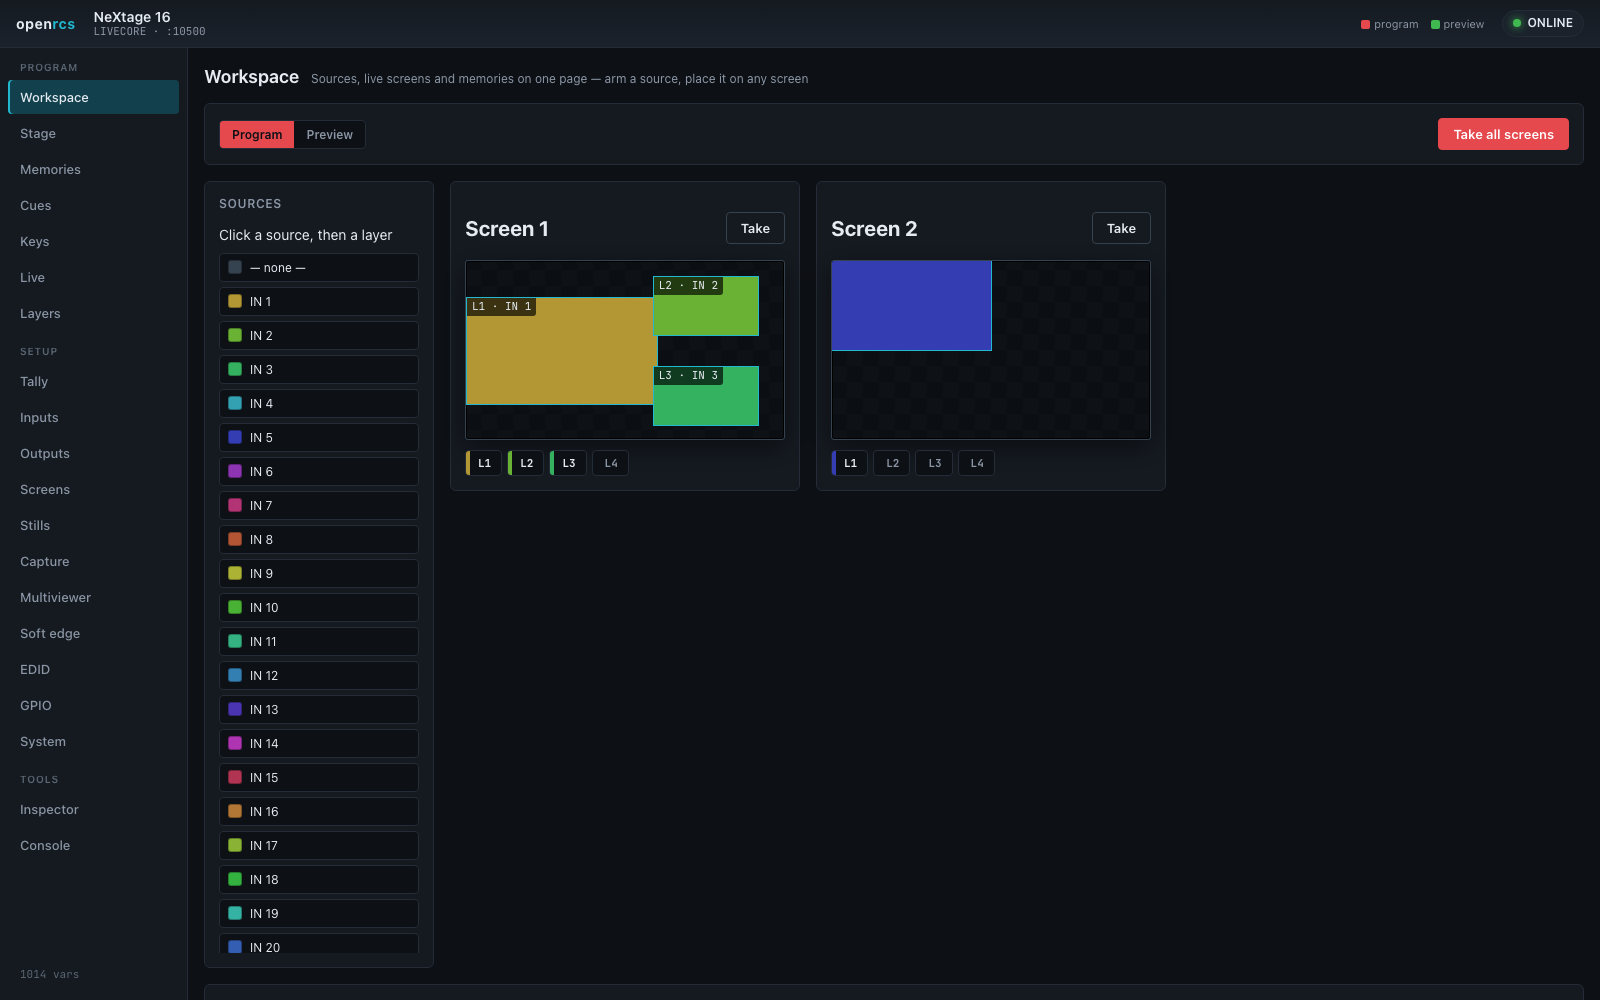
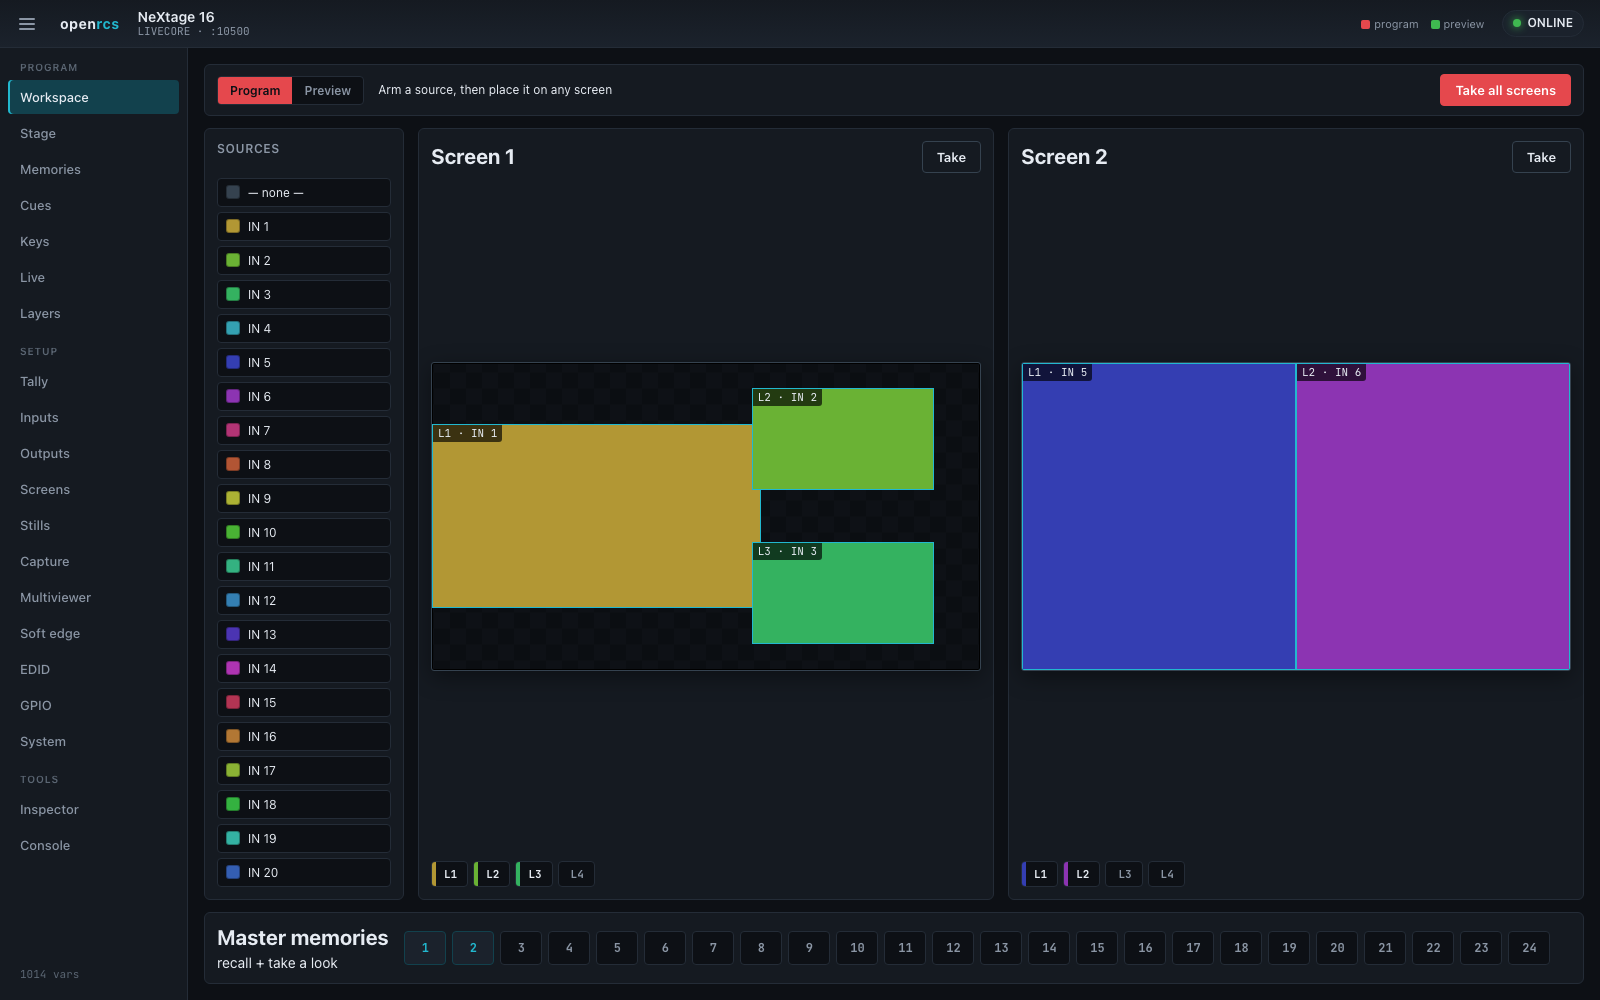
docs: refresh Workspace screenshot and note the fill-window layout
New capture shows the bigger previews and the pinned memory strip; guide
notes the fit-to-window behaviour and the collapsible main menu.

diff --git a/docs/USER-GUIDE.md b/docs/USER-GUIDE.md
@@ -40,11 +40,15 @@ single shape.
 One page that mirrors how you actually drive a show, with everything in reach:
 the **source palette** down the left, **every active screen** laid out and
 editable side by side in the middle, and the **memory strip** along the bottom.
+The page fits the window — the previews grow to fill the space and the memory
+strip stays in view, so nothing is a scroll away. Collapse the main menu with the
+button top-left (it stays collapsed) when you want the screens even larger.
 
 - **Arm a source**, then click a screen's layer slot — or click straight onto the
   canvas — to drop it in. Arm **— none —** to clear a layer.
 - **Drag and resize** layers directly on each screen, exactly as in the Layers
-  editor, with every screen live at once.
+  editor, with every screen live at once. One screen fills the width; two or more
+  share it side by side.
 - Each screen has its own **Take**; **Take all screens** cuts the lot.
 - The **Program / Preview** toggle chooses which context you're editing. On a
   Midra unit the program preset is protected, so the page edits preview and you
